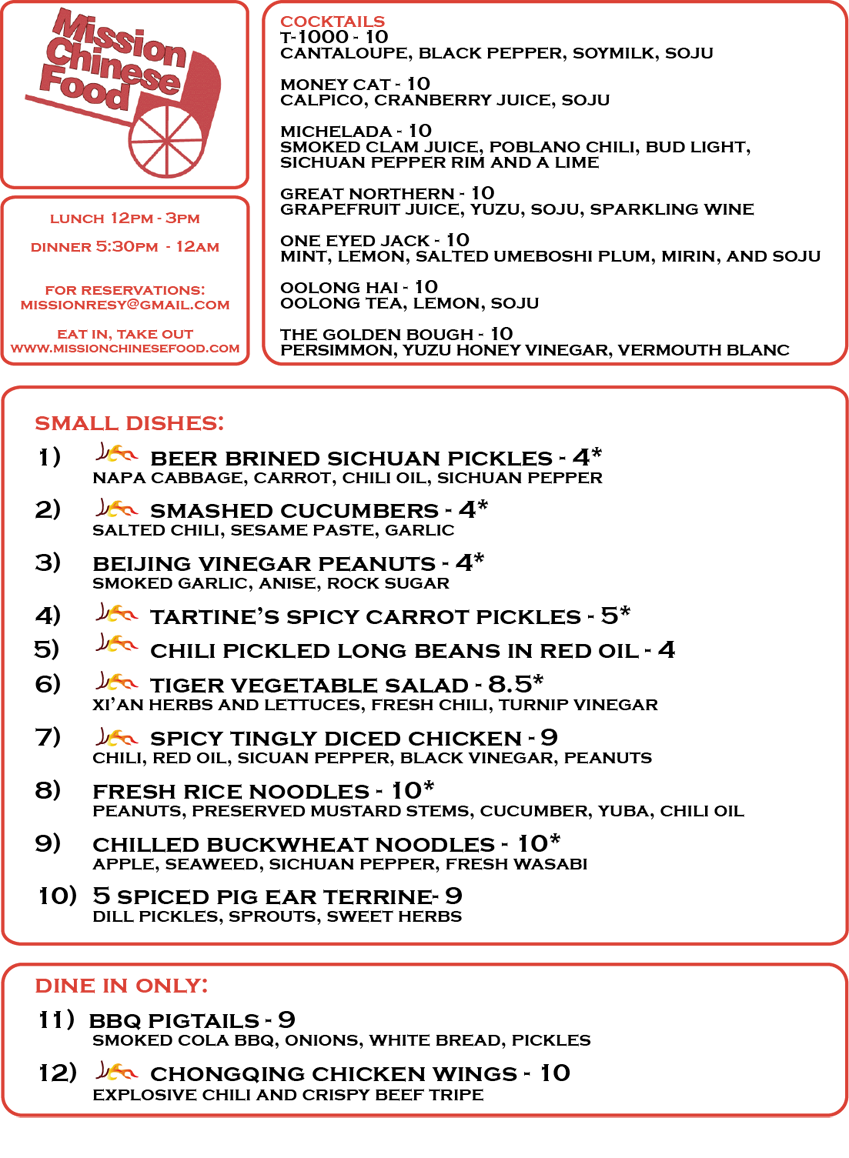
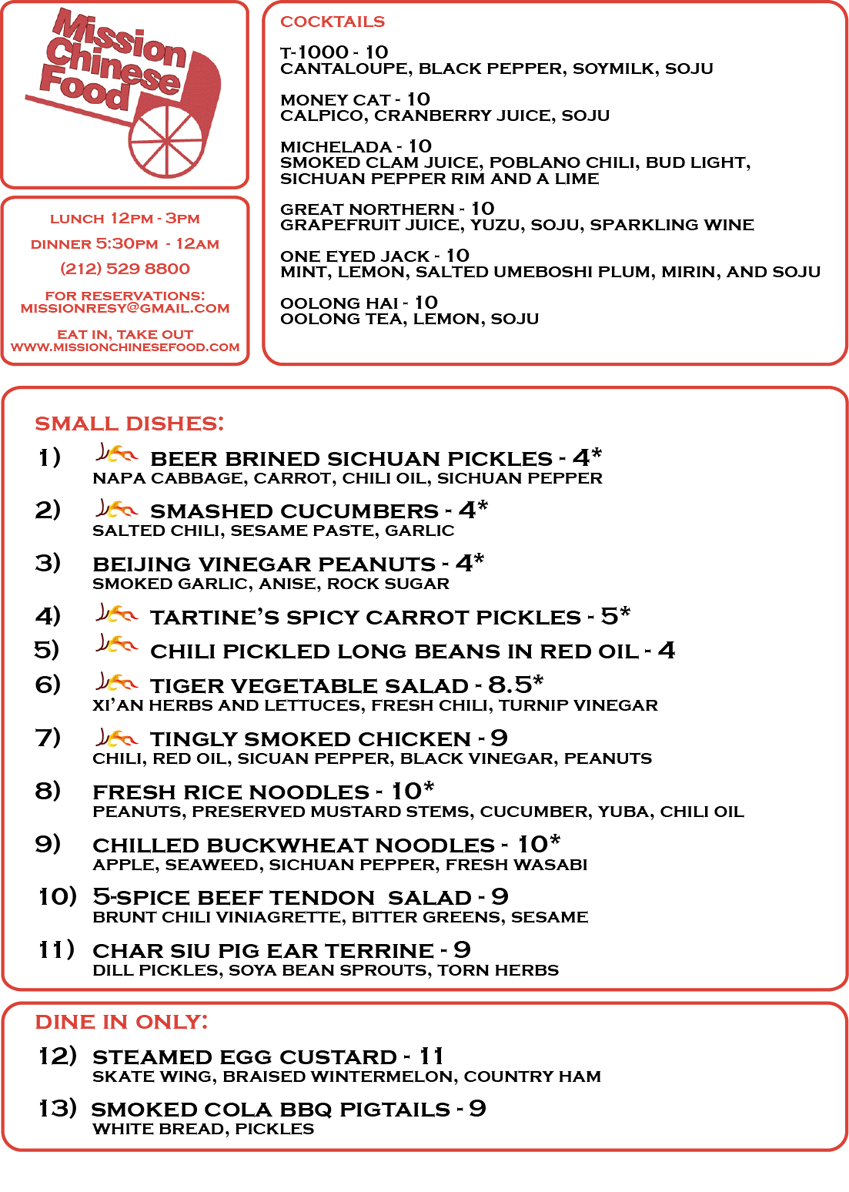
Update NY menu

Changed region(s): [[0.0, 0.0, 1.0, 0.9637], [0.98, 0.9326, 1.0, 0.9637]]

diff --git a/ny/index.html b/ny/index.html
@@ -53,8 +53,8 @@ body {
 <body>
 
 <div id="menu">
-	<img class="well" src="/static/img/nymenu1.png?v=4" alt="Menu"  width="849" height="1158" />
-	<img class="well" src="/static/img/nymenu2.png?v=4" alt="Menu"  width="849" height="1039" />
+	<img class="well" src="/static/img/nymenu1.png?v=5" alt="Menu"  width="849" height="1192" />
+	<img class="well" src="/static/img/nymenu2.png?v=5" alt="Menu"  width="849" height="1084" />
 	<p id="footer">154 ORCHARD ST NY NY 10002 BETWEEN RIVINGTON &amp; STANTON ST</p>
 </div>
 
